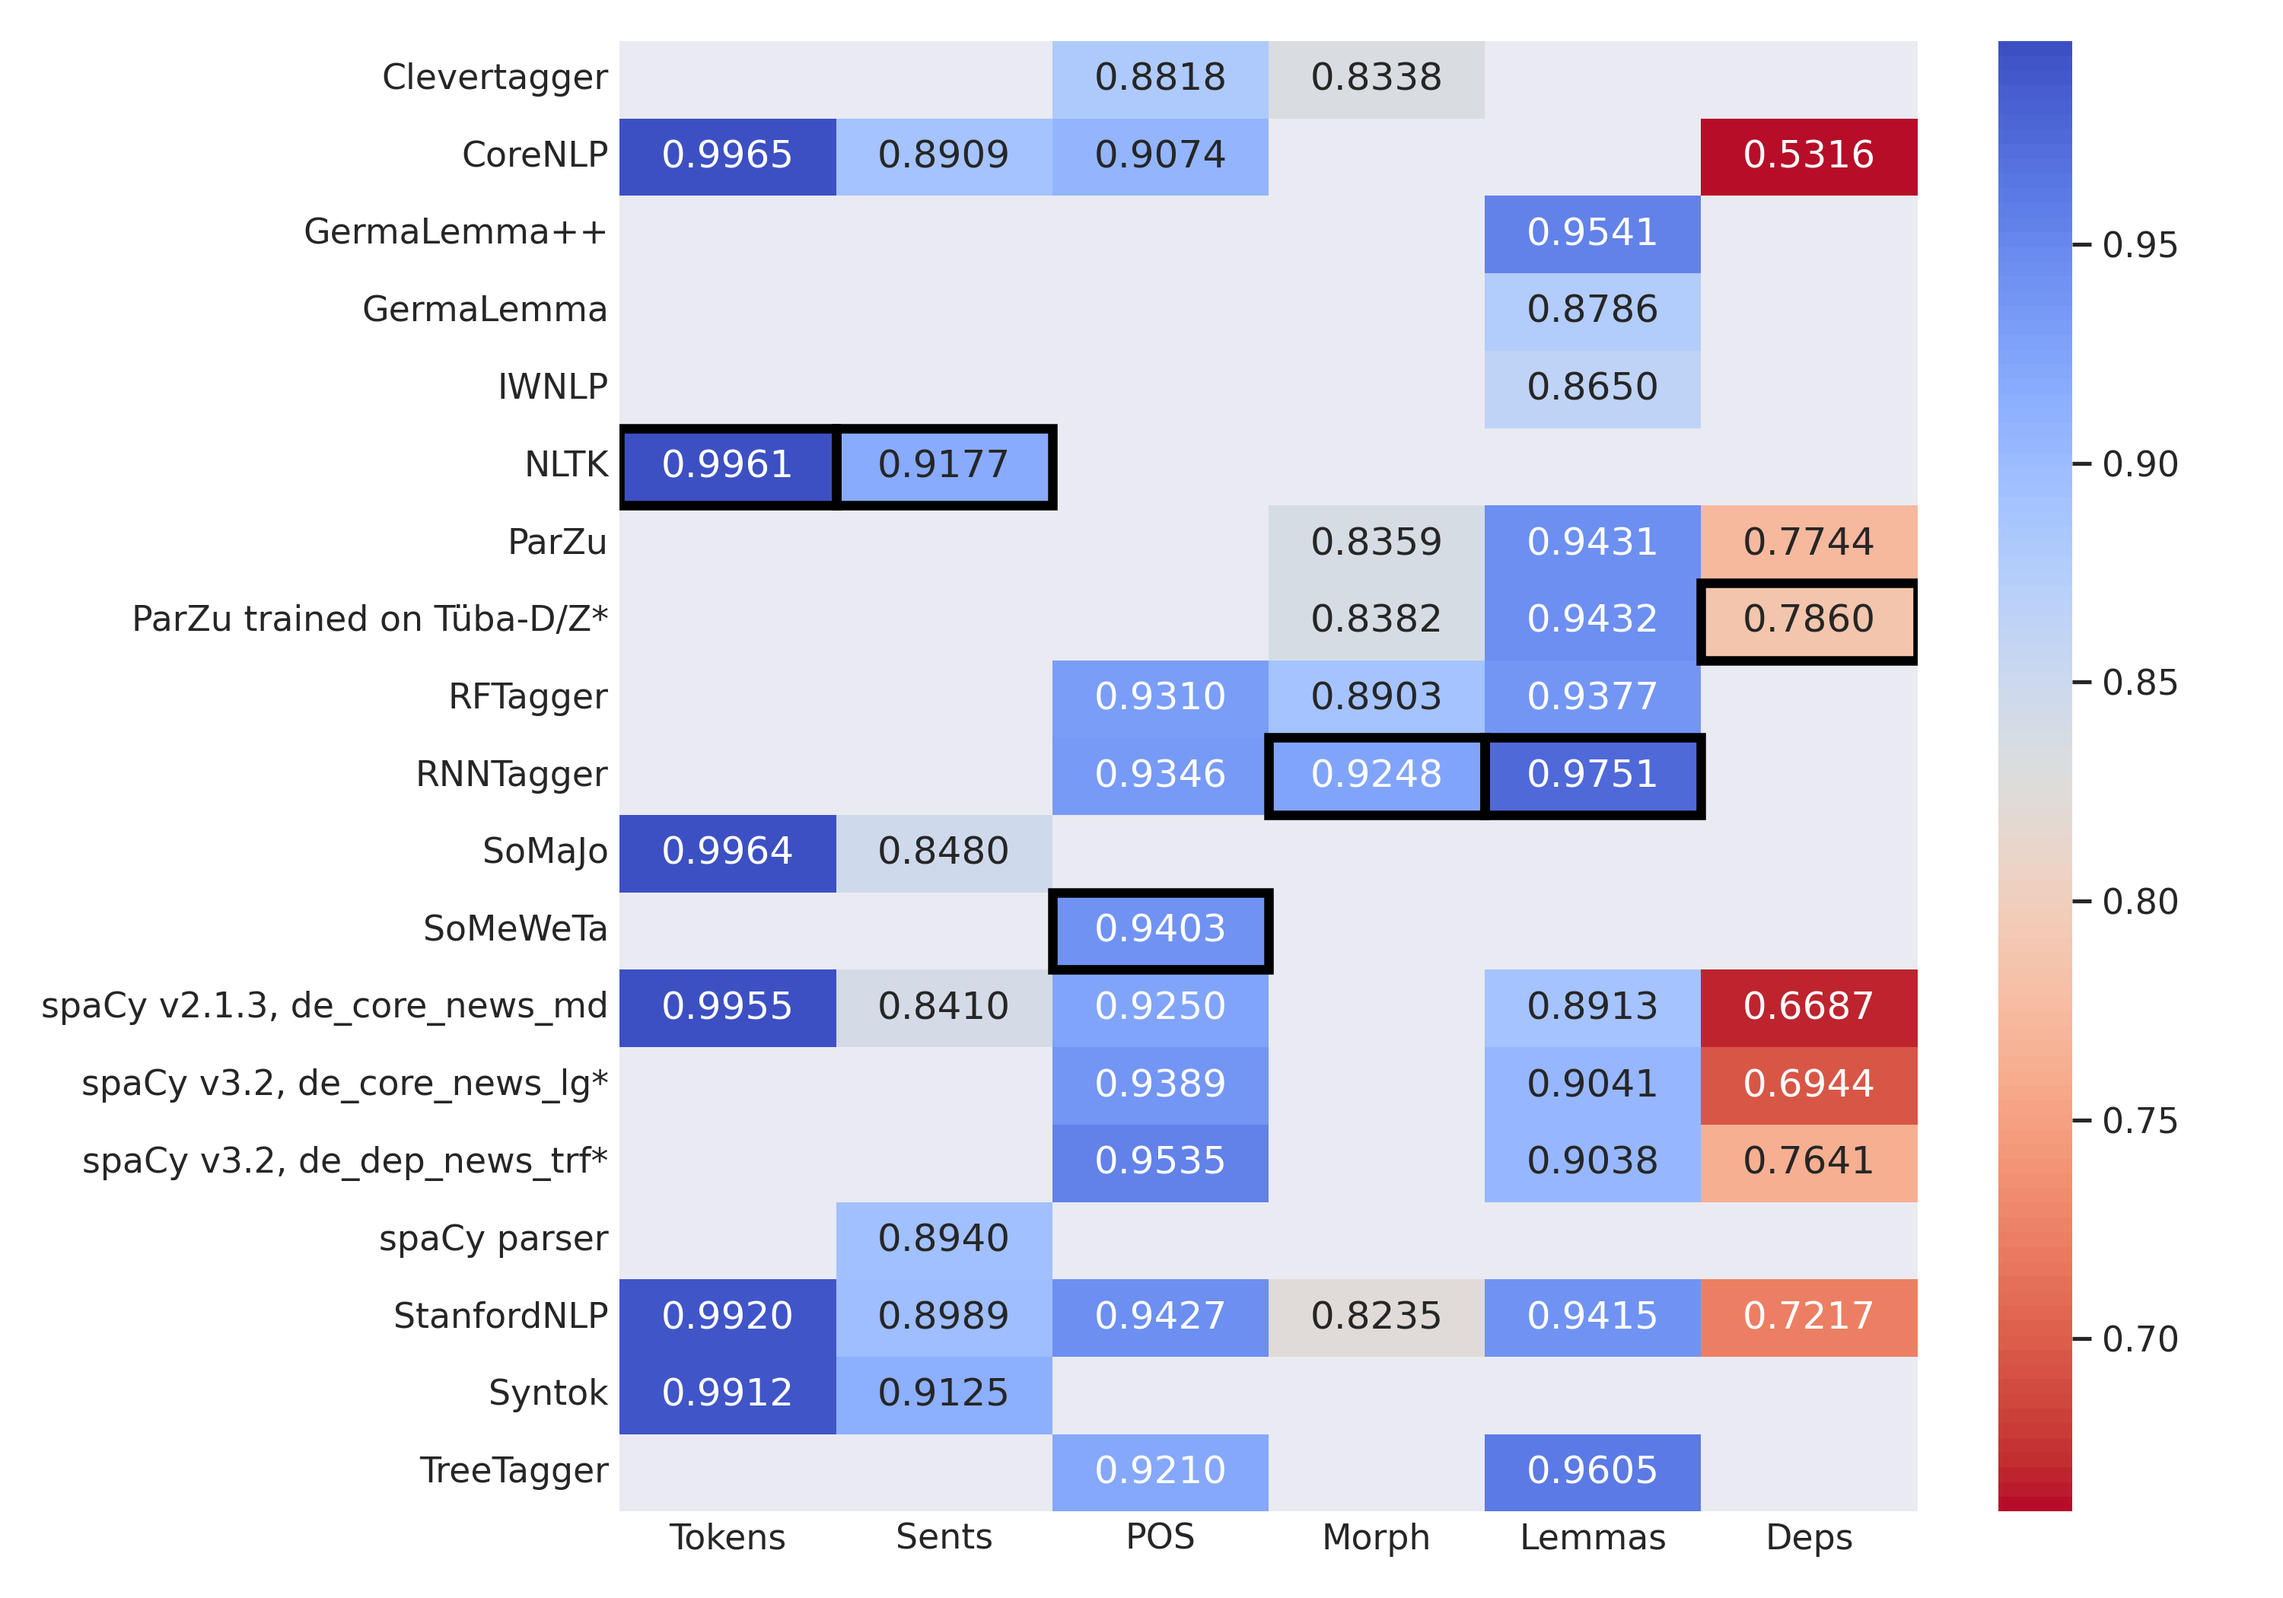
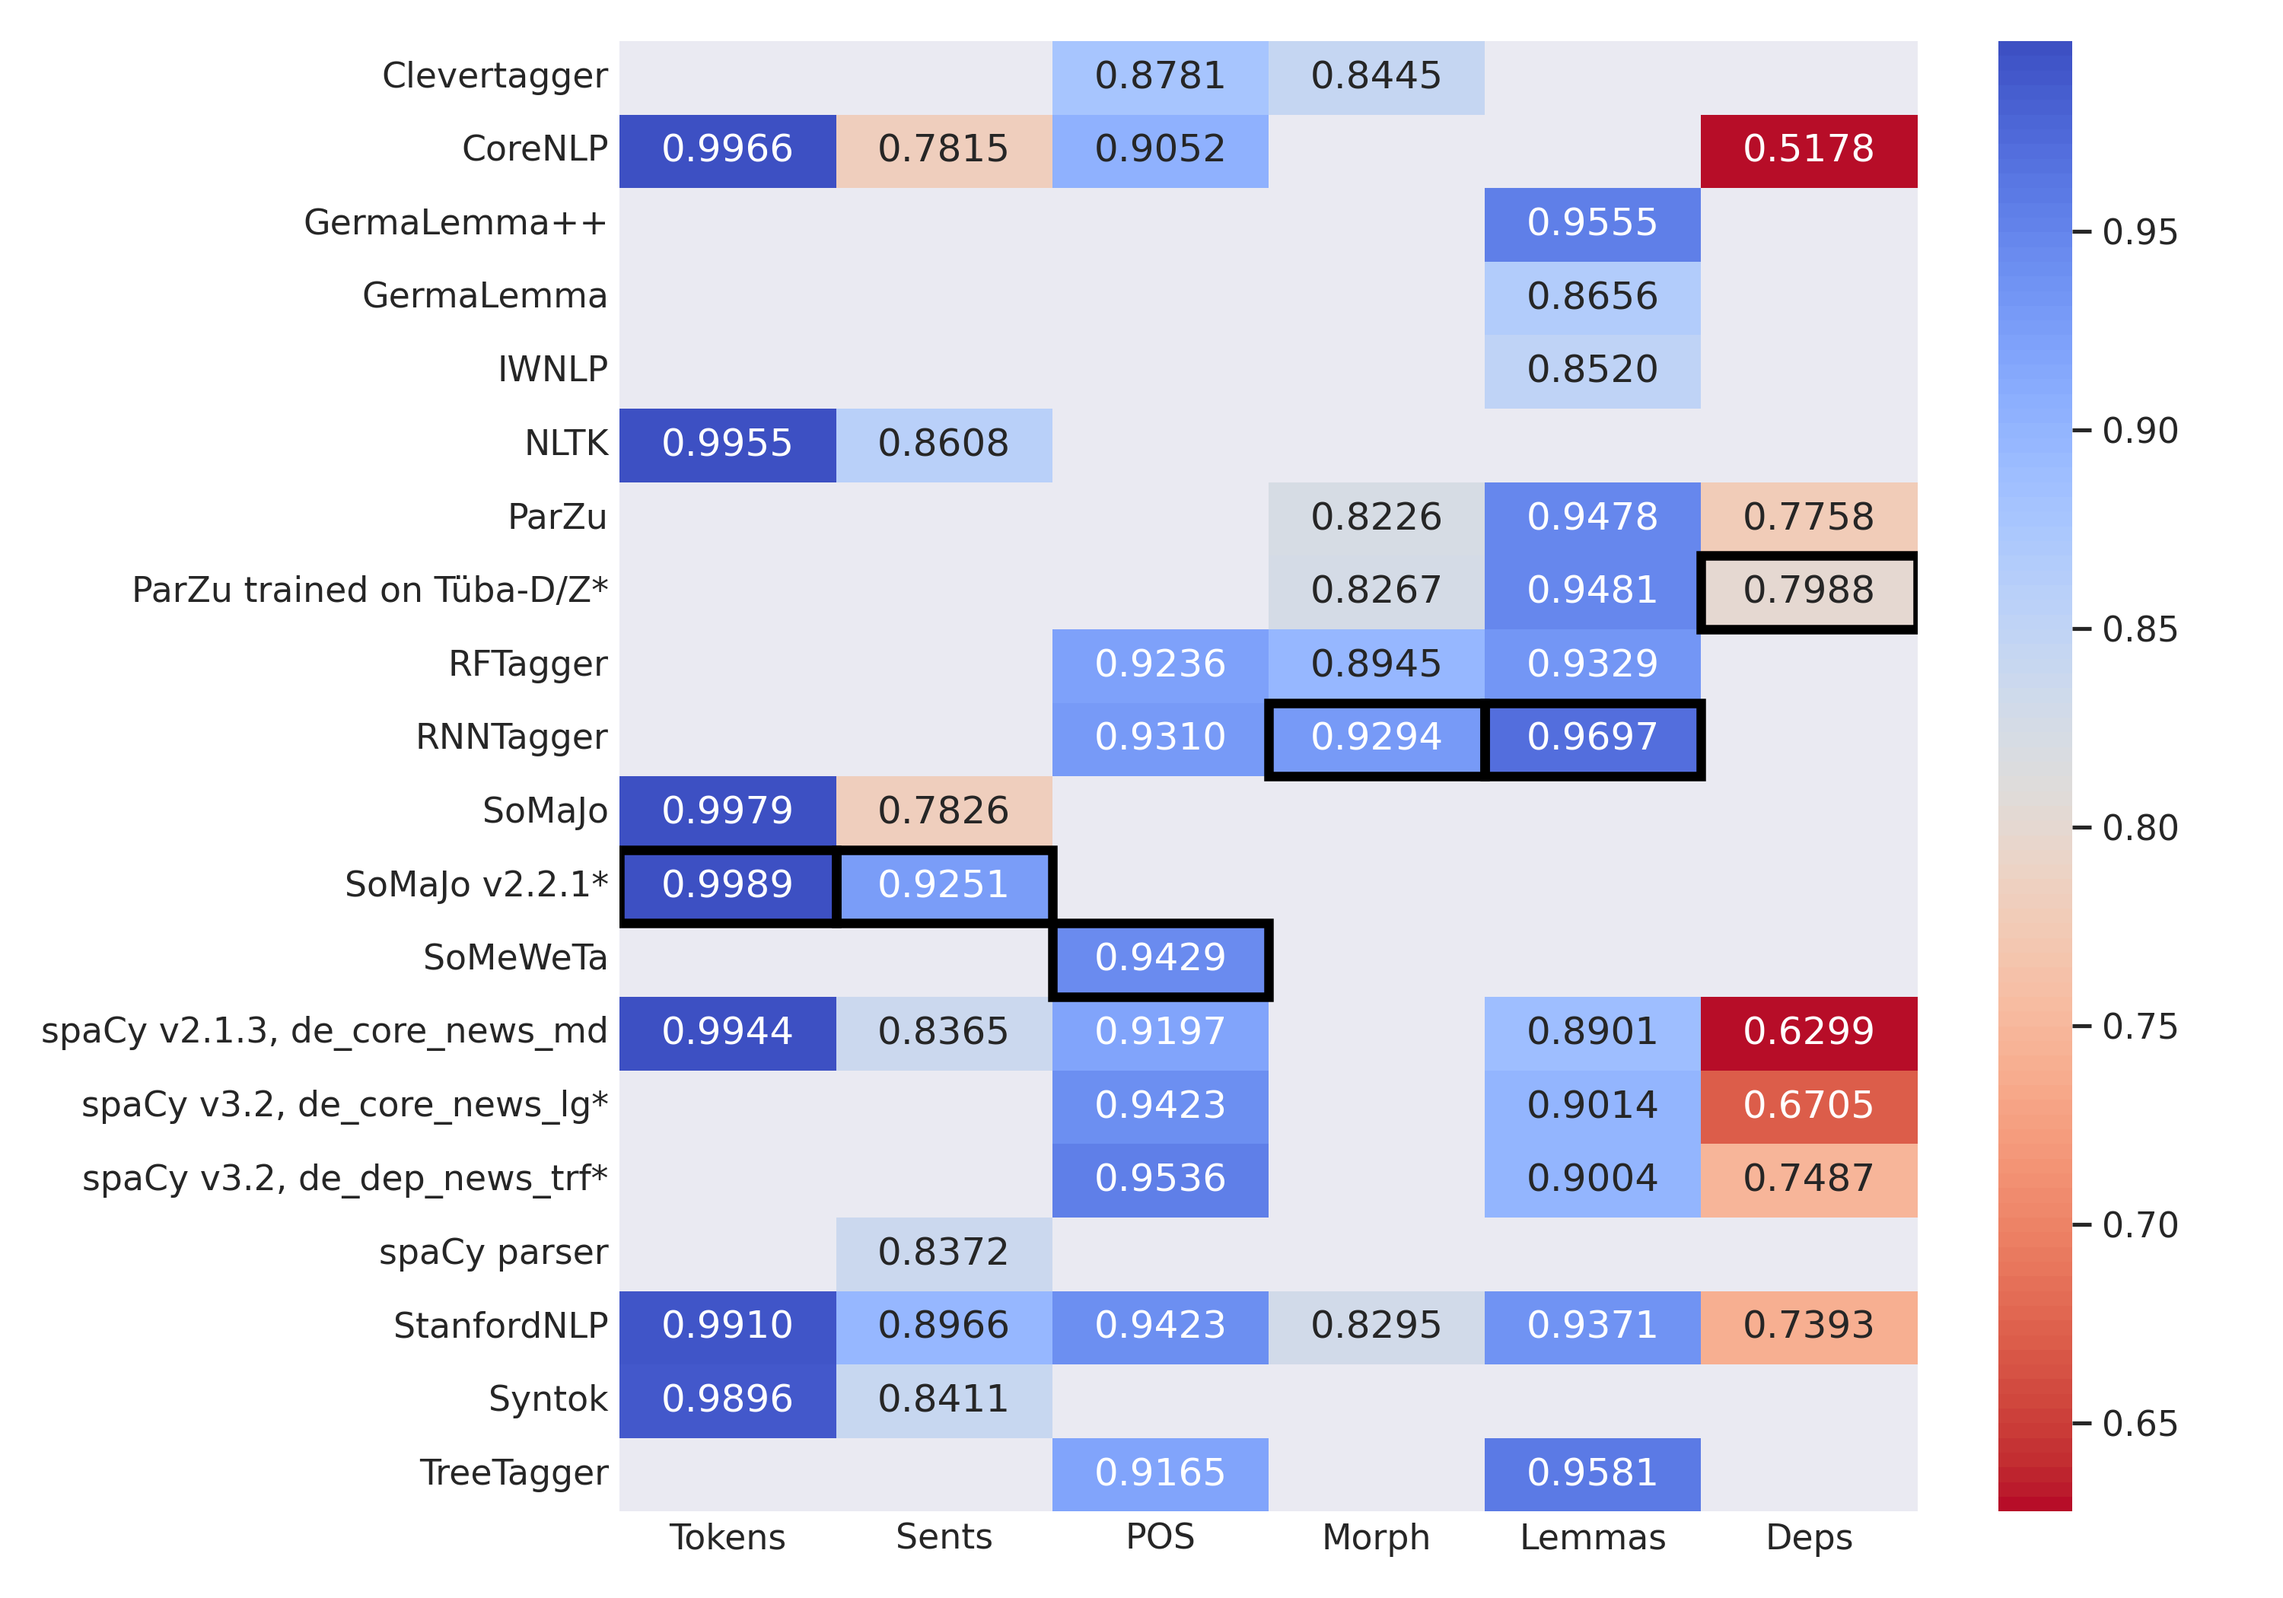
Document SoMaJo model selection

diff --git a/doc/MODEL_SELECTION.md b/doc/MODEL_SELECTION.md
@@ -1,8 +1,9 @@
 # Model Selection
 
-The selection of the language models / NLP tools for the LLP pipeline was primarily guided by the “Evaluation of off-the-shelf NLP tools for German” by [Ortmann, Roussel, Dipper (2019)](#ref-ortmann_evaluating_2019). We refer to the publication for details on the evaluated systems. Additionally, we perform evaluations on the same dataset for 
+The selection of the language models / NLP tools for the LLP pipeline was primarily guided by the “Evaluation of off-the-shelf NLP tools for German” by [Ortmann, Roussel, Dipper (2019)](#ref-ortmann_evaluating_2019). We refer to the publication for details on the evaluated systems. We only use the `wikipedia` and `novelettte` gold coropra for our evaluation. Additionally, we perform evaluations on the same dataset for 
 
 - latest Spacy v3.2,
+- latest SoMaJo v2.2.1,
 - ParZu, with “improved statistic” derived from the non-free [Tüba-D/Z](https://uni-tuebingen.de/en/faculties/faculty-of-humanities/departments/modern-languages/department-of-linguistics/chairs/general-and-computational-linguistics/ressources/corpora/tueba-dz/) corpus.
 
 ![](accplot_new.png)
@@ -10,9 +11,9 @@ Overall F1 scores (for tokens and sentences) or accuracy (otherwise) for all sys
 
 On the basis of these evaluations, the models selected for the default LLP pipeline are
 
-* Tokenization and Sentence Splitting via **NLTK** [(Bird, Klein, Loper 2009)](#ref-bird_natural_2009):
+* Tokenization and Sentence Splitting via **SoMaJo** [(Proisl, Uhrig 2016)](#ref-proisl_somajo_2016):
 
-  NLTK implements tokenization and sentence splitting via the PUNKT algorithm [(Kiss, Strunk 2006)](#ref-kiss_unsupervised_2006). [Webpage](https://www.nltk.org/_modules/nltk/tokenize/punkt.html). This system gives the best performance when considering both tokenization and sentence splitting (and hence appears to perform better than, e.g., SoMaJo)
+  SoMaJo is a rule-based tokenizer and sentence splitter. [Github](https://github.com/tsproisl/SoMaJo). This system gives the best performance when considering both tokenization and sentence splitting.
 
 
 * POS tagging via **SoMeWeTa** [(Proisl 2018)](#ref-proisl_someweta_2018):
@@ -49,12 +50,6 @@ Additionally, the following models have been integrated for further text process
 
 ## References
 
-<div id="ref-bird_natural_2009" class="csl-entry" role="doc-biblioentry">
-
-Bird, Steven, Ewan Klein, and Edward Loper. 2009. <em>Natural Language Processing with Python</em>. Cambridge, Mass.: O’Reilly.
-
-</div>
-
 <div id="ref-brunner_bert_2021" class="csl-entry" role="doc-biblioentry">
 
 Brunner, Annelen, Ngoc Duyen Tanja Tu, Lukas Weimer, and Fotis Jannidis. 2021. <span>“To <span>BERT</span> or Not to <span>BERT</span> – Comparing Contextual Embeddings in a Deep Learning Architecture for the Automatic Recognition of Four Types of Speech, Thought and Writing Representation.”</span> In <em>Proceedings of the 5th Swiss Text Analytics Conference (<span>SwissText</span>) &amp; 16th Conference on Natural Language Processing (<span>KONVENS</span>)</em>, 2624:11. <span>CEUR</span> Workshop Proceedings. Zurich, Switzerland. <a href="http://ceur-ws.org/Vol-2624/paper5.pdf">http://ceur-ws.org/Vol-2624/paper5.pdf</a>.
@@ -78,6 +73,13 @@ Ortmann, Katrin, A. Roussel, and Stefanie Dipper. 2019. <span>“Evaluating Off-
 Proisl, Thomas. 2018. <span>“<span>SoMeWeTa</span>: A Part-of-Speech Tagger for German Social Media and Web Texts.”</span> In <em>Proceedings of the Eleventh International Conference on Language Resources and Evaluation (<span>LREC</span> 2018)</em>, 665–70. Miyazaki, Japan: European Language Resources Association <span>ELRA</span>. <a href="http://www.lrec-conf.org/proceedings/lrec2018/pdf/49.pdf">http://www.lrec-conf.org/proceedings/lrec2018/pdf/49.pdf</a>.
 
 </div>
+
+<div id="ref-proisl_somajo_2016" class="csl-entry" role="doc-biblioentry">
+
+Proisl, Thomas, and Peter Uhrig. 2016. <span>“<span>SoMaJo</span>: State-of-the-Art Tokenization for German Web and Social Media Texts.”</span> In <em>Proceedings of the 10th Web as Corpus Workshop</em>, 57–62. Berlin: Association for Computational Linguistics. <a href="https://doi.org/10.18653/v1/W16-2607">https://doi.org/10.18653/v1/W16-2607</a>.
+
+</div>
+
 
 <div id="ref-schmid_deep_2019" class="csl-entry" role="doc-biblioentry">
 

diff --git a/README.md b/README.md
@@ -3,7 +3,7 @@
 A modular NLP Pipeline for German literary texts. Work in progress.
 
 This pipeline currently performs
-* Tokenization and Sentence Splitting via [NLTK](https://www.nltk.org/_modules/nltk/tokenize/punkt.html) [(Bird, Klein, Loper 2009)](#ref-bird_natural_2009)
+* Tokenization and Sentence Splitting via [SoMaJo](https://github.com/tsproisl/SoMaJo)  [(Proisl, Uhrig 2016)](#ref-proisl_somajo_2016).
 * POS tagging via [SoMeWeTa](https://github.com/tsproisl/SoMeWeTa) [(Proisl 2018)](#ref-proisl_someweta_2018)
 * Lemmatization and Morphological Analysis via [RNNTagger](https://www.cis.uni-muenchen.de/~schmid/tools/RNNTagger/) [(Schmid 2019)](#ref-schmid_deep_2019)
 * Dependency Parsing via [ParZu](https://github.com/rsennrich/ParZu) ([Sennrich, Schneider, Volk, Warin 2009](#ref-sennrich_new_2009); [Sennrich, Volk, Schneider 2013](#ref-sennrich_exploiting_2013); [Sennrich, Kunz 2014](#ref-sennrich_zmorge_2014))
@@ -137,12 +137,6 @@ GNU General Public License for more details.
 
 ## References
 
-<div id="ref-bird_natural_2009" class="csl-entry" role="doc-biblioentry">
-
-Bird, Steven, Ewan Klein, and Edward Loper. 2009. <em>Natural Language Processing with Python</em>. Cambridge, Mass.: O’Reilly.
-
-</div>
-
 <div id="ref-brunner_bert_2021" class="csl-entry" role="doc-biblioentry">
 
 Brunner, Annelen, Ngoc Duyen Tanja Tu, Lukas Weimer, and Fotis Jannidis. 2021. <span>“To <span>BERT</span> or Not to <span>BERT</span> – Comparing Contextual Embeddings in a Deep Learning Architecture for the Automatic Recognition of Four Types of Speech, Thought and Writing Representation.”</span> In <em>Proceedings of the 5th Swiss Text Analytics Conference (<span>SwissText</span>) &amp; 16th Conference on Natural Language Processing (<span>KONVENS</span>)</em>, 2624:11. <span>CEUR</span> Workshop Proceedings. Zurich, Switzerland. <a href="http://ceur-ws.org/Vol-2624/paper5.pdf">http://ceur-ws.org/Vol-2624/paper5.pdf</a>.
@@ -164,6 +158,12 @@ Ortmann, Katrin, A. Roussel, and Stefanie Dipper. 2019. <span>“Evaluating Off-
 <div id="ref-proisl_someweta_2018" class="csl-entry" role="doc-biblioentry">
 
 Proisl, Thomas. 2018. <span>“<span>SoMeWeTa</span>: A Part-of-Speech Tagger for German Social Media and Web Texts.”</span> In <em>Proceedings of the Eleventh International Conference on Language Resources and Evaluation (<span>LREC</span> 2018)</em>, 665–70. Miyazaki, Japan: European Language Resources Association <span>ELRA</span>. <a href="http://www.lrec-conf.org/proceedings/lrec2018/pdf/49.pdf">http://www.lrec-conf.org/proceedings/lrec2018/pdf/49.pdf</a>.
+
+</div>
+
+<div id="ref-proisl_somajo_2016" class="csl-entry" role="doc-biblioentry">
+
+Proisl, Thomas, and Peter Uhrig. 2016. <span>“<span>SoMaJo</span>: State-of-the-Art Tokenization for German Web and Social Media Texts.”</span> In <em>Proceedings of the 10th Web as Corpus Workshop</em>, 57–62. Berlin: Association for Computational Linguistics. <a href="https://doi.org/10.18653/v1/W16-2607">https://doi.org/10.18653/v1/W16-2607</a>.
 
 </div>
 
